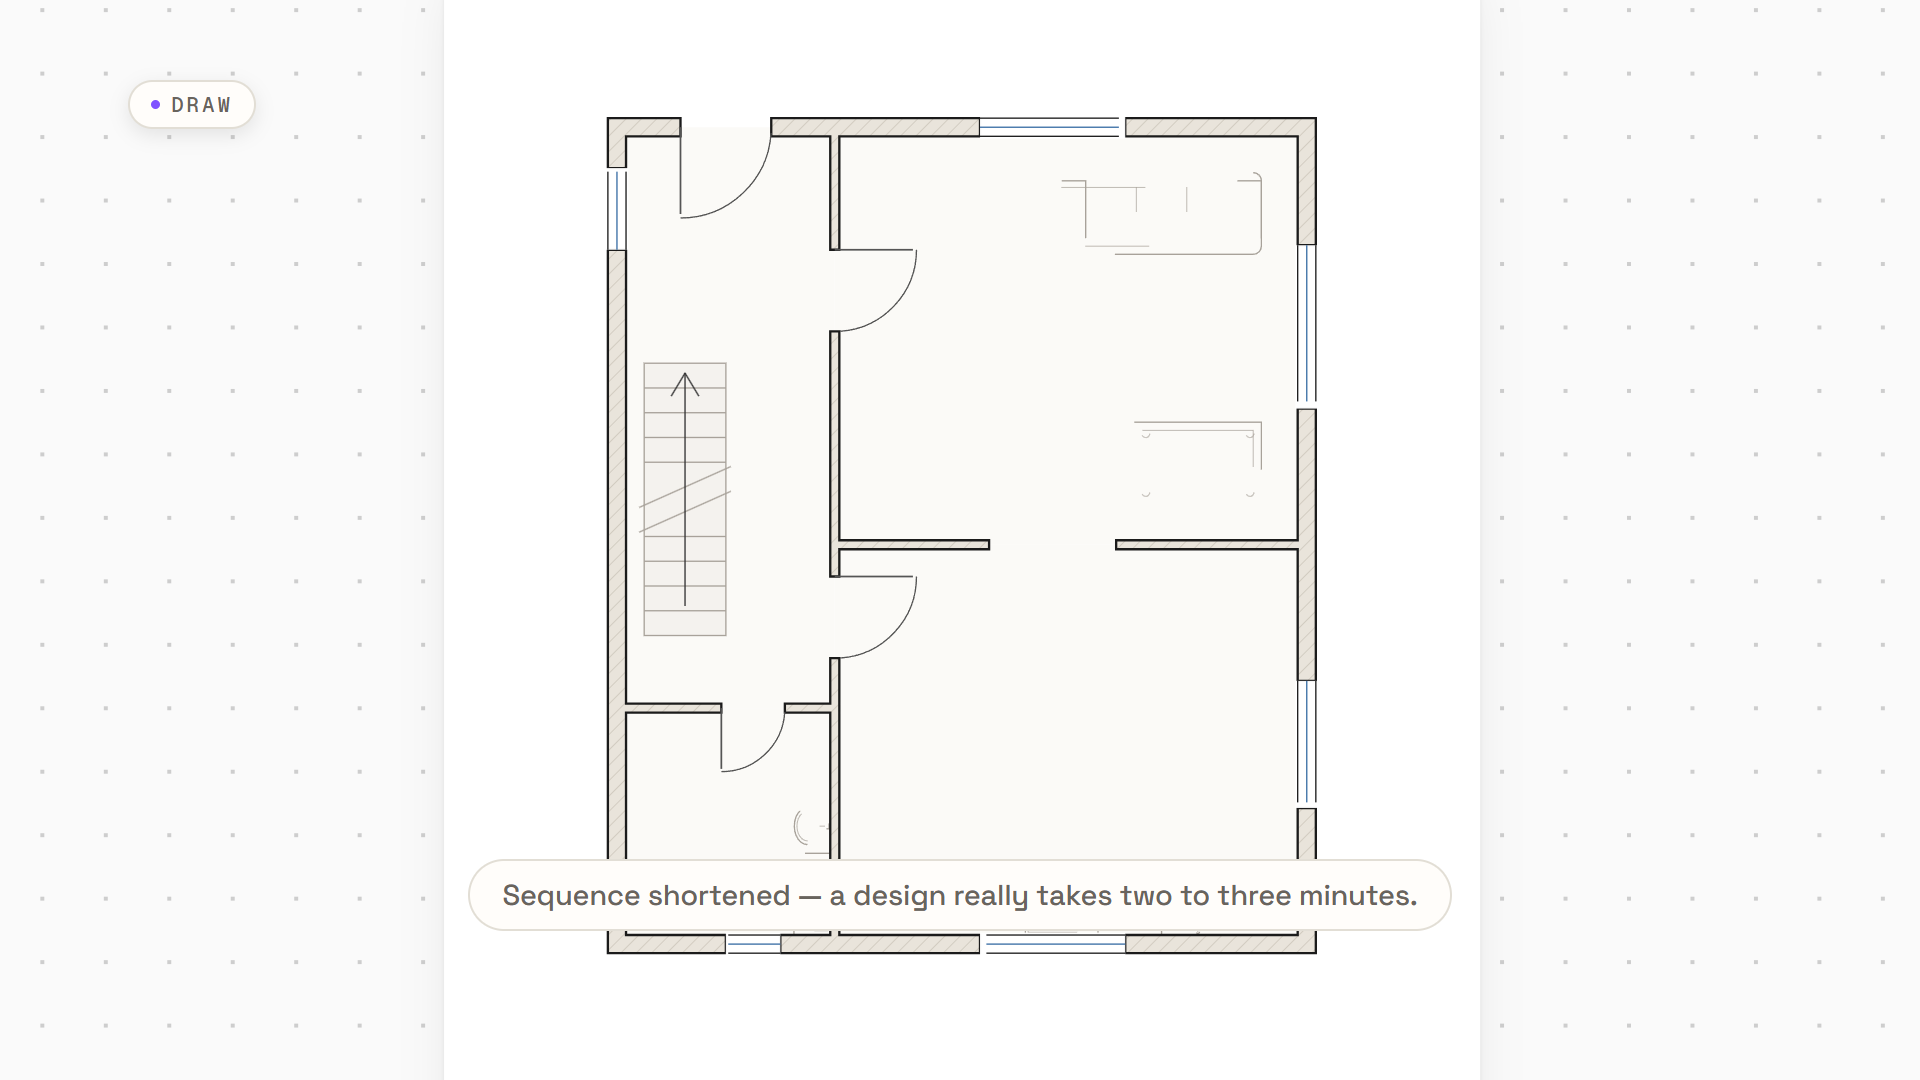
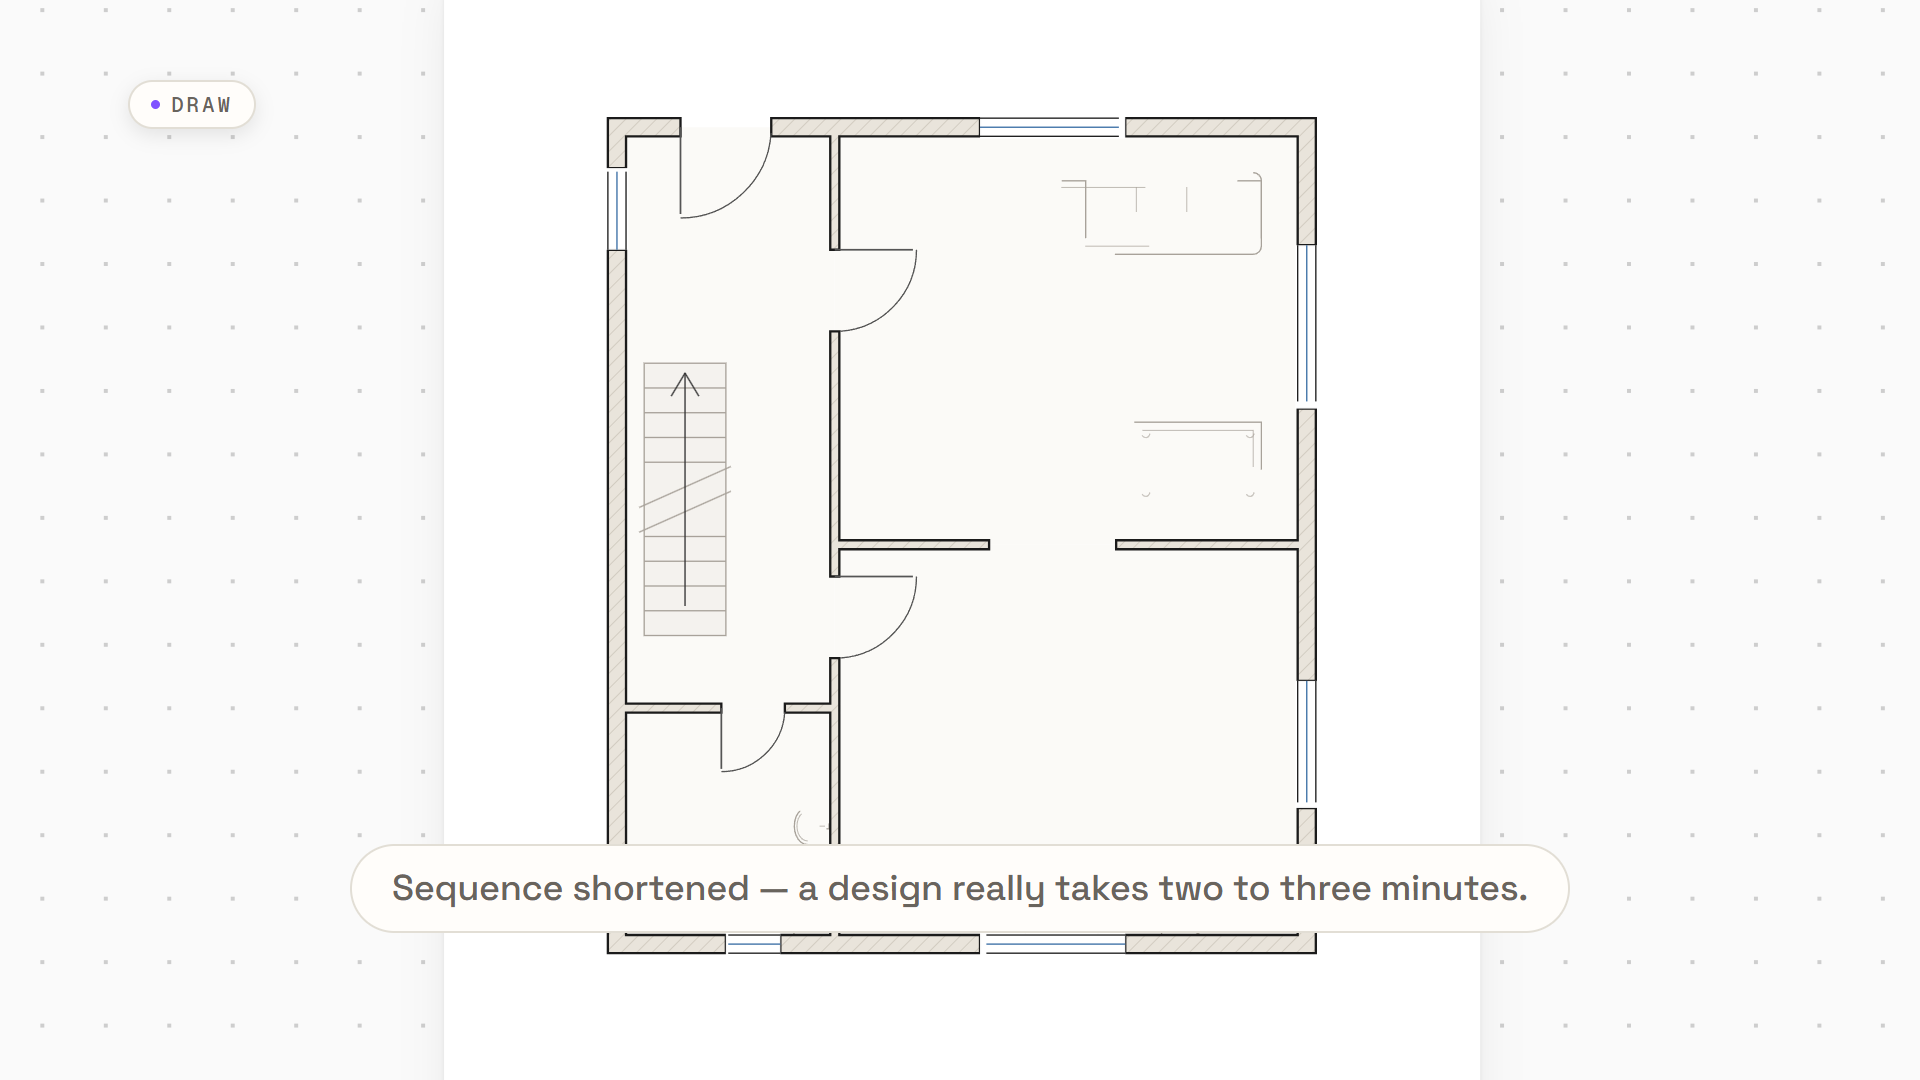
docs: the gate list is nine, and the map names the two new modules

Changed region(s): [[0.1875, 0.7639, 0.7812, 0.8861]]

diff --git a/CLAUDE.md b/CLAUDE.md
@@ -94,13 +94,16 @@ src/copy.ts          every word the FILM says in its own voice, + COPY_FLAGS   [
 src/honesty.ts       the caption beat, the draw hand-over and the drafting     [React-free]
                      span — all DERIVED from the synced screenplay
 src/timeline.ts      the ONLY frame arithmetic in the repo; resolveCut(),      [React-free]
-                     honestyWindowFor(), TIMELINES (grid-snapped — one clock)
+                     honestyWindowFor(), timelineFor(cut, aspect) +
+                     honestyWindow(cut, aspect) — grid-snapped, one clock, and
+                     only `expelsCaption` differs between the frame shapes
 src/camera.ts        the mount, the push, the protected-rectangle clamp        [React-free]
 src/film-demo.ts     DemoInputs, the screenplay, the resolved pages, the       [React-free]
                      montage — all read out of the synced product data
 src/cues.ts          the cue sheets, DERIVED by walking each cut frame by frame[React-free]
 src/audio.ts         the manifests, the duck spec, the self-check              [React-free]
 src/typefit.ts       size-from-character-count, because measuring needs fonts  [React-free]
+src/caption.ts       CAPTION_SCALE — how big the film's own band sets          [React-free]
 src/tokens.ts        the product's own colours, converted from OKLCH to sRGB   [React-free]
 src/fonts.ts         Space Grotesk + Geist Mono, narrowed
 src/assets.ts        every staticFile() as a LITERAL, so the gate can read it
@@ -140,8 +143,8 @@ node scripts/sync-replica.mjs --check         # hash-only; exit 1 on drift
 npm run dev                                   # Remotion Studio
 
 npm run lint                                  # tsc --noEmit
-npm run verify                                # assets -> replica -> timeline -> copy
-                                              #   -> numbers -> audio -> honesty -> opening
+npm run verify                                # assets -> replica -> timeline -> copy -> numbers
+                                              #   -> audio -> honesty -> framing -> opening
 npm run stills --  --comp Studio-30-Landscape-16x9   # six beats of one master
 for c in ...; do node capture/stills.mjs --comp $c; done   # a full sweep, per comp
 node capture/stills.mjs --sheet --comp <id>   # contact FRAMES for one cut

diff --git a/README.md b/README.md
@@ -41,7 +41,8 @@ node scripts/sync-replica.mjs --from <path>   # or any checkout / worktree
 
 npm run dev        # Remotion Studio
 npm run lint       # tsc --noEmit
-npm run verify     # assets -> replica -> timeline -> copy -> numbers
+npm run verify     # nine gates: assets, replica, timeline, copy, numbers,
+                   #   audio, honesty, framing, opening
 ```
 
 Render a still before rendering anything long:
